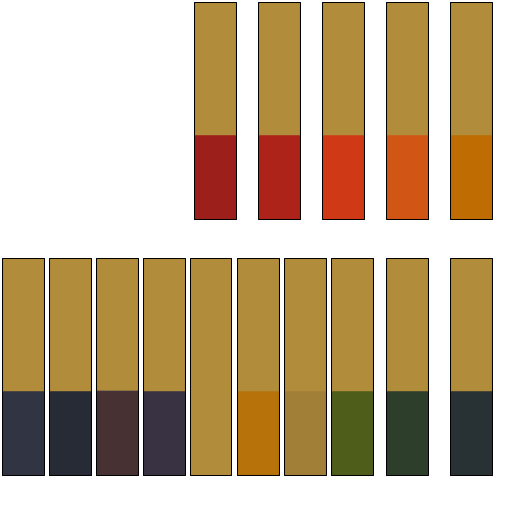
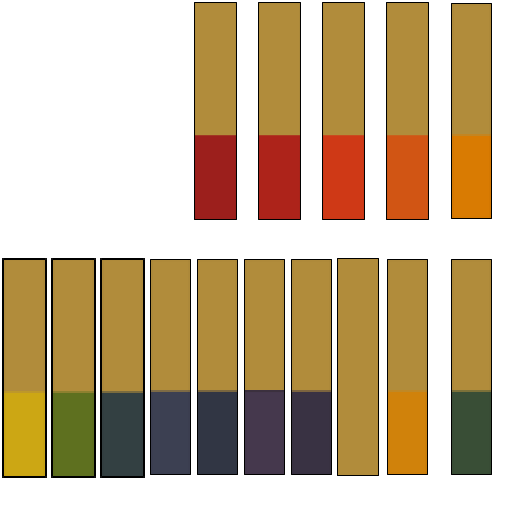
tentatively final draft
there are some internal comments about what to fix up, and i'd like to double-check the pH values etc, but otherwise...it's done?

Changed region(s): [[0.0, 0.5, 0.8438, 0.9375], [0.875, 0.5, 0.9688, 0.9375], [0.875, 0.0, 0.9688, 0.4375]]

diff --git a/scripts/c3runtime.js b/scripts/c3runtime.js
@@ -2953,6 +2953,7 @@ d},Unpin(){this._SetPinInst(null);this._mode="";this._propSet.clear();this._pinI
 		C3.Plugins.System.Acts.AddVar,
 		C3.Plugins.Text.Acts.SetText,
 		C3.Plugins.System.Cnds.OnLayoutStart,
+		C3.Plugins.Sprite.Acts.Destroy,
 		C3.Plugins.System.Acts.ResetGlobals,
 		C3.Plugins.Sprite.Acts.SetOpacity,
 		C3.Plugins.Sprite.Acts.SetEffectEnabled,
@@ -2965,6 +2966,7 @@ d},Unpin(){this._SetPinInst(null);this._mode="";this._propSet.clear();this._pinI
 		C3.Plugins.Sprite.Cnds.OnCreated,
 		C3.Plugins.System.Cnds.ForEach,
 		C3.Plugins.Sprite.Cnds.IsOverlapping,
+		C3.Plugins.Sprite.Cnds.IsAnimPlaying,
 		C3.Plugins.Sprite.Cnds.PickDistance,
 		C3.Plugins.Sprite.Exps.X,
 		C3.Plugins.Sprite.Exps.Y,
@@ -2973,11 +2975,9 @@ d},Unpin(){this._SetPinInst(null);this._mode="";this._propSet.clear();this._pinI
 		C3.Plugins.System.Cnds.IsGroupActive,
 		C3.Plugins.Touch.Cnds.IsTouchingObject,
 		C3.Plugins.System.Cnds.TriggerOnce,
-		C3.Plugins.Sprite.Cnds.IsAnimPlaying,
 		C3.Plugins.Sprite.Acts.SetAnim,
 		C3.Plugins.Sprite.Acts.SetInstanceVar,
 		C3.Plugins.Sprite.Cnds.CompareInstanceVar,
-		C3.Plugins.Sprite.Acts.Destroy,
 		C3.Behaviors.DragnDrop.Cnds.OnDrop,
 		C3.Plugins.Sprite.Acts.MoveToTop,
 		C3.Plugins.Touch.Cnds.OnTapGestureObject,
@@ -3036,11 +3036,14 @@ d},Unpin(){this._SetPinInst(null);this._mode="";this._propSet.clear();this._pinI
 		{InstructionText3: 0},
 		{waterJarSelector: 0},
 		{demopHStrip: 0},
+		{Pipette: 0},
+		{pipetteCollider: 0},
 		{Droppers: 0},
 		{Bottles: 0},
 		{Drops: 0},
 		{ElapsedTime: 0},
-		{mode: 0}
+		{mode: 0},
+		{waterFilled: 0}
 	];
 }
 
@@ -3159,16 +3162,18 @@ d},Unpin(){this._SetPinInst(null);this._mode="";this._propSet.clear();this._pinI
 		},
 		p => {
 			const f0 = p._GetNode(0).GetBoundMethod();
-			return () => (638 + f0((-15), 15));
+			return () => (658 + f0((-5), 5));
 		},
 		p => {
 			const f0 = p._GetNode(0).GetBoundMethod();
 			return () => f0((-5), 5);
 		},
+		() => "filled",
 		p => {
 			const n0 = p._GetNode(0);
 			return () => n0.ExpObject();
 		},
+		() => "empty",
 		() => "Vinegar Bottle Drops",
 		() => "closed",
 		() => "open",
@@ -3199,8 +3204,14 @@ d},Unpin(){this._SetPinInst(null);this._mode="";this._propSet.clear();this._pinI
 		() => "wait",
 		() => "fade out",
 		() => "Uncapped",
-		() => "experiment",
-		() => 0.5
+		() => "tutorial",
+		() => "12",
+		() => "pipette",
+		() => "filling",
+		() => "emptying",
+		() => 0.1,
+		() => 12,
+		() => "experiment"
 	];
 }
 
